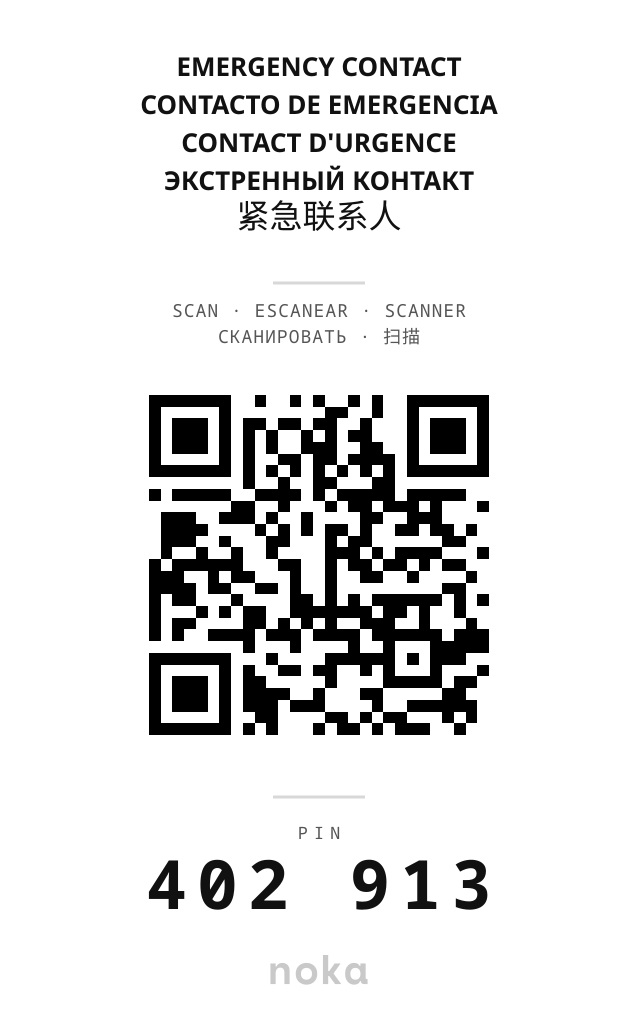
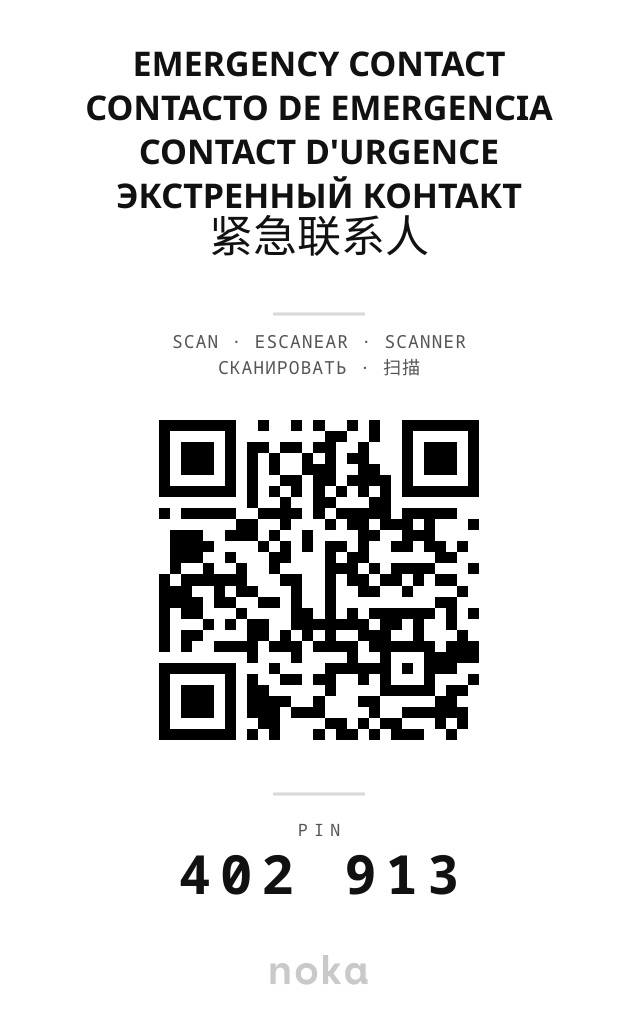
polish(card): a bigger heading, a smaller PIN
The heading is what a stranger reads from arm's length, so it goes from 26px to 34px with the
leading to match; the PIN drops from 68px to 54px, where it is still the second-loudest thing on
the card.

The card is a fixed 1011px tall, so the 31px the heading gained had to come from somewhere: the
QR is 20px smaller (320px, still comfortably scannable), the two gaps around it lose 8px each,
and the PIN block tightens by 12px. Every text block measured against the 638px width afterwards
— the longest line, CONTACTO DE EMERGENCIA, now runs 85 → 553 with the margins intact.

diff --git a/src/lib/card-artwork.ts b/src/lib/card-artwork.ts
@@ -88,12 +88,14 @@ export async function cardSvg(input: CardArtworkInput): Promise<string> {
   ensureFonts();
   const phrases = cardPhrasesFor(input.languages);
 
-  // Heading: every language, stacked, CJK a touch larger to hold the same weight.
+  // Heading: every language, stacked, CJK a touch larger to hold the same weight. Bigger than
+  // it was — it is what a stranger reads first from arm's length — which costs 31px of the
+  // fixed 1011px card, paid for below by a slightly smaller QR and PIN.
   const heading: string[] = [];
   let y = 76;
   for (const phrase of phrases) {
-    heading.push(centeredText(phrase.title, y, 26, { weight: 'bold', scale: phrase.scale ?? 1 }));
-    y += Math.round(38 * (phrase.scale ?? 1));
+    heading.push(centeredText(phrase.title, y, 34, { weight: 'bold', scale: phrase.scale ?? 1 }));
+    y += Math.round(44 * (phrase.scale ?? 1));
   }
 
   const ruleY = y + 6;
@@ -106,12 +108,12 @@ export async function cardSvg(input: CardArtworkInput): Promise<string> {
   const scanBottom = secondLine ? scanTop + scanLineHeight : scanTop;
 
   // Room to breathe: the QR sits well clear of the text above and the PIN below.
-  const qrSize = 340;
+  const qrSize = 320;
   const qrX = Math.round((CARD_WIDTH_PX - qrSize) / 2);
-  const qrY = scanBottom + 52;
+  const qrY = scanBottom + 46;
   const qr = await qrSvg(input.url, qrSize);
 
-  const pinRuleY = qrY + qrSize + 62;
+  const pinRuleY = qrY + qrSize + 54;
 
   return `<svg xmlns="http://www.w3.org/2000/svg" width="${CARD_WIDTH_PX}" height="${CARD_HEIGHT_PX}" viewBox="0 0 ${CARD_WIDTH_PX} ${CARD_HEIGHT_PX}">
   <rect width="100%" height="100%" fill="#ffffff"/>
@@ -122,7 +124,7 @@ export async function cardSvg(input: CardArtworkInput): Promise<string> {
   <g transform="translate(${qrX}, ${qrY})">${qr}</g>
   <line x1="${CARD_WIDTH_PX / 2 - 46}" y1="${pinRuleY}" x2="${CARD_WIDTH_PX / 2 + 46}" y2="${pinRuleY}" stroke="${LINE}" stroke-width="3"/>
   ${centeredText('PIN', pinRuleY + 42, 17, { font: MONO_FONT, fill: SOFT, tracking: 6 })}
-  ${centeredText(input.pin, pinRuleY + 112, 68, { font: MONO_FONT, weight: 'bold', tracking: 10 })}
+  ${centeredText(input.pin, pinRuleY + 100, 54, { font: MONO_FONT, weight: 'bold', tracking: 9 })}
   ${wordmarkSvg(CARD_WIDTH_PX / 2, CARD_HEIGHT_PX - 56, 30)}
 </svg>`;
 }
